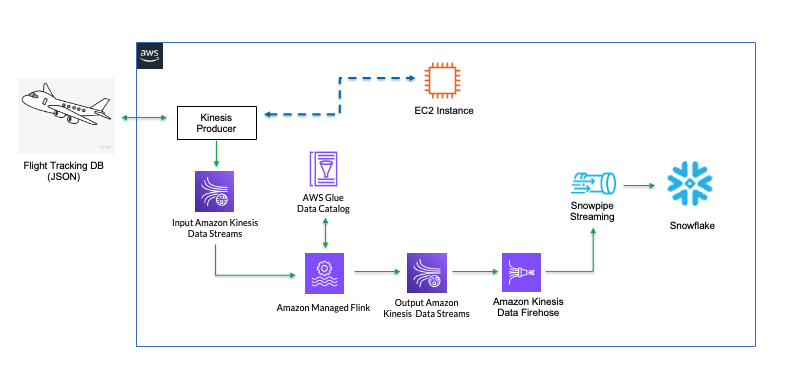
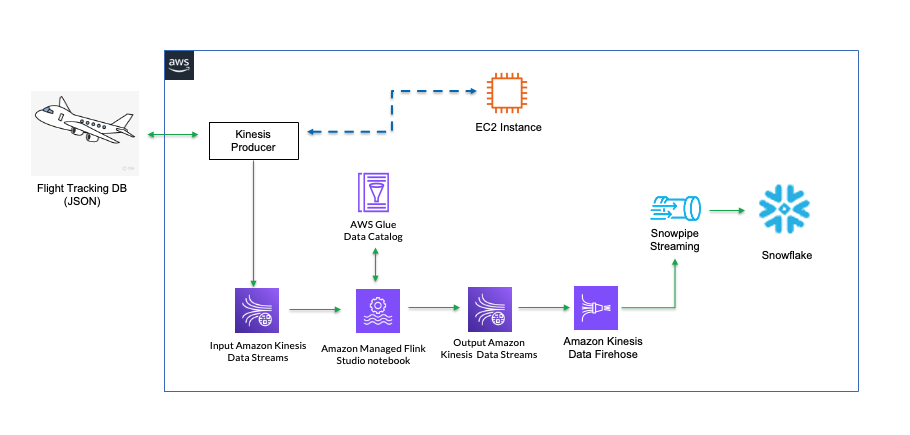
Flink update

diff --git a/site/sfguides/src/getting_started_with_snowflake_and_aws_kdf/getting_started_with__snowflake_and_aws_kdf.md b/site/sfguides/src/getting_started_with_snowflake_and_aws_kdf/getting_started_with__snowflake_and_aws_kdf.md
@@ -442,11 +442,13 @@ As a result, you will see a nicely structured output with columns derived from t
 ## Use Amazon Managed Flink for real-time analytics - Optional
 Duration: 15
 
-Here we will show you how to integrate our current demo with [Amazon Managed Service for Apache Flink](https://aws.amazon.com/managed-service-apache-flink/) to do real-time analytics.
+Here we will show you how to integrate our current demo with [Amazon Managed Service for Apache Flink](https://aws.amazon.com/managed-service-apache-flink/) and [Kinesis Data Streams (KDS)](https://aws.amazon.com/kinesis/data-streams/) to do real-time analytics.
 
-The schematic diagram below shows data from the source is streamed into an input KDS stream, processed by Flink in real-time, streamed into an output KDS stream, picked up by Data Firehose before landing in Snowflake. [AWS Glue Data Catalog](https://docs.aws.amazon.com/prescriptive-guidance/latest/serverless-etl-aws-glue/aws-glue-data-catalog.html) serves as a metadata store for Flink tables.
+The schematic diagram below illustrates the flow of data from the source, which is streamed into an input KDS stream. The data is then processed by [Flink Studio notebook](https://docs.aws.amazon.com/managed-flink/latest/java/how-sinks.html#sinks-firehose-create) in real-time, before being ingested into an output KDS stream, it is picked up by Data Firehose and ultimately lands in Snowflake. [AWS Glue Data Catalog](https://docs.aws.amazon.com/prescriptive-guidance/latest/serverless-etl-aws-glue/aws-glue-data-catalog.html) serves as a metadata store for Flink Studio notebook tables.
 
 ![](assets/flink-schematic.png)
+
+Optionally, if you are writing Flink applications instead of using the Flink Studio notebook, you can use the [Firehose Producer](https://docs.aws.amazon.com/managed-flink/latest/java/how-sinks.html#sinks-firehose-create) to bypass the output Kinesis stream.
 
 #### 1. Create a table in Snowflake to receive Flink-filtered data
 Log into the Snowflake account as `streaming_user`. Run the following SQL commands to generate a table for capturing the filtered streams.
@@ -555,7 +557,7 @@ You should see the filtered flight tracked are captured in table `ADF_FLINK_TBL`
 Duration: 5
 
 When you are done with the demo, to tear down the AWS resources, simply go to the [Cloudformation](https://console.aws.amazon.com/cloudformation/home?stacks) console.
-Select the Cloudformation template you used to deploy the jumphost at the start of the demo, then click the `Delete` tab.
+Select the Cloudformation template you used to deploy the jumphost at the start of the demo, also the template for Amazon Managed Flink if you optionally deployed it, then click the `Delete` tab.
 
 See example screen capture below.
 
@@ -588,5 +590,3 @@ Related Resources
 - [Snowflake on AWS Marketplace](https://aws.amazon.com/marketplace/seller-profile?id=18d60ae8-2c99-4881-a31a-e74770d70347)
 - [Snowflake for Data Sharing](https://www.snowflake.com/Workloads/data-sharing/)
 - [Snowflake Marketplace](https://www.snowflake.com/en/data-cloud/marketplace/)
-
-
